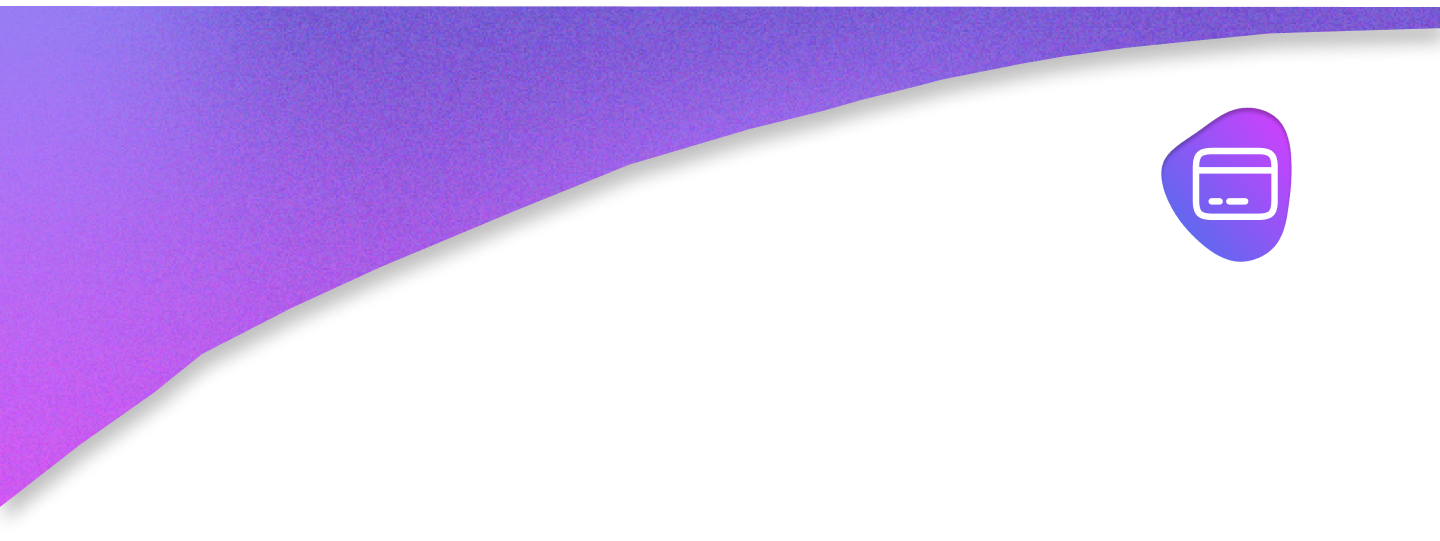
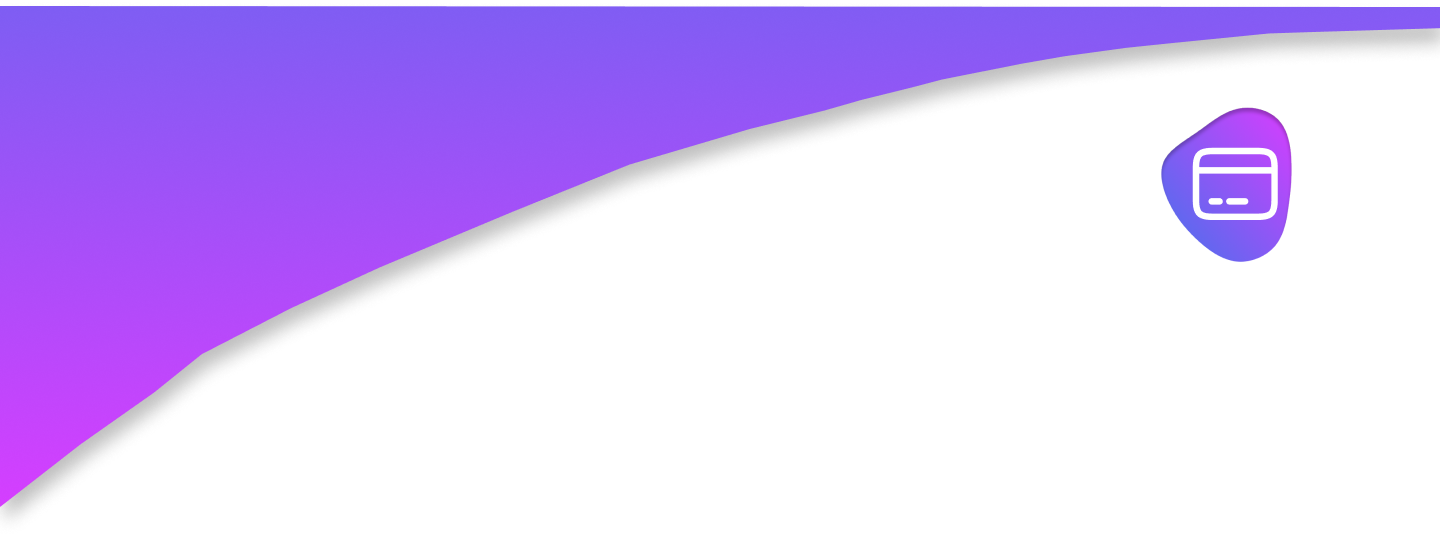
ok

Changed region(s): [[0.0, 0.0, 1.0, 0.9168]]

diff --git a/src/Components/Menu.module.css b/src/Components/Menu.module.css
@@ -1,9 +1,7 @@
 .fundo {
     width: 100%;
     height: 700px;
-    background-image: url(../Imagens/Menu.png);
-    background-repeat: no-repeat;
-    background-size: cover;
+    background: linear-gradient(180deg, #C131D1 0%, #4472EB 193.77%);
 
 }
 
@@ -33,7 +31,6 @@
     top: 0;
     width: 100%;
     height: 0%;
-    background-color: red;
     transition: 0.26s ease-in-out;
     transform: scaleX(1);
 }

diff --git a/src/Components/Vantagens.module.css b/src/Components/Vantagens.module.css
@@ -53,6 +53,10 @@
     margin-top: -100px;
 }
 
+.box p:hover{
+    color: #353535;
+}
+
 .fundo h1 {
     text-align: center;
     padding-top: 90px;

diff --git a/src/Components/Header.module.css b/src/Components/Header.module.css
@@ -19,7 +19,7 @@
     font-size: 19px;
     width: 250px;
     height: 20px;
-    margin-top: 40px;
+    margin-top: 30px;
 }
 
 .login button {
